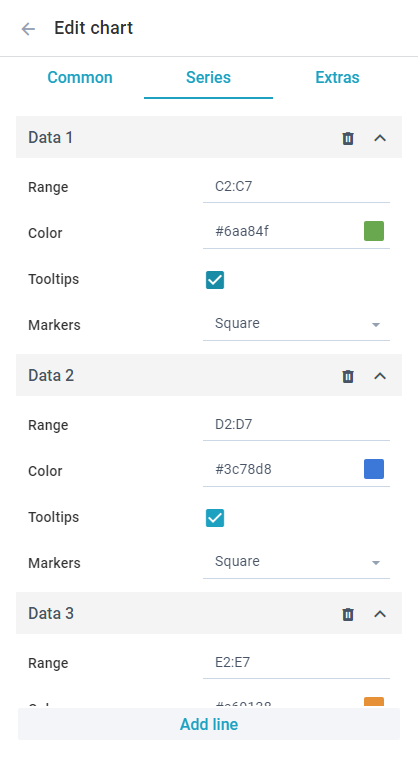
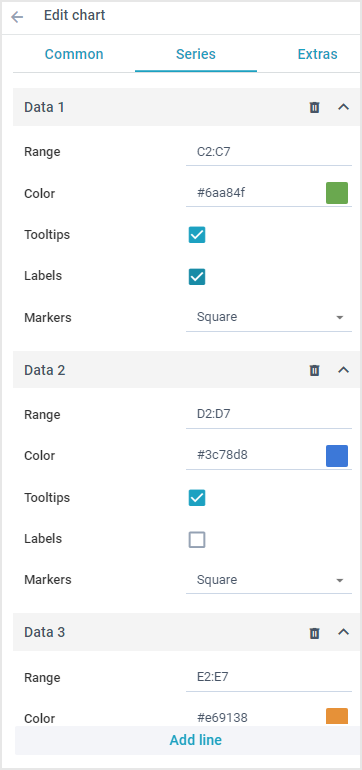
[update] add 8.3 features

diff --git a/work_with_views.md b/work_with_views.md
@@ -44,8 +44,9 @@ In the **Series** tab you can:
 1. Specify the range for a series 
 2. Choose an appropriate color from a color picker
 3. Enable or disable tooltips for markers
-4. Define the markers shape 
-5. Delete a series or add a new line
+4. Enable or disable labels for markers
+6. Define the markers shape 
+6. Delete a series or add a new line
 
 ![Series Tab](.gitbook/assets/chart_series.png)
 
@@ -65,11 +66,20 @@ It is also possible to specify the *horizontal* and *vertical alignment* of the 
 
 #### Tuning Axes
 
-To define the data source for the X-axis type the range of the cells to get data from in the traditional **Range** field.
+To define the data source for the X-axis type the range of the cells to get data from in the dedicated **Range** field.
 
-You can also provide *titles* for both X and Y-axes, enable the *background grid* and choose its *color* through the corresponding controls on the panel.
+You can also provide *titles* for both X and Y-axes.
 
 ![Background Lines are Colored Purple](.gitbook/assets/chart_lines_color.png)
+
+Apart from the *Title* field mentioned above the Y-Axis has the following configurable options on its own:
+
+1. Origin - the scale origin on the Y-axis
+2. Start - the minimum value of the scale on the Y-Axis
+3. End - the maximum value of the scale on the Y-Axis
+4. Step - the scale step on the Y-Axis.
+
+![Y-Axis specific settings in use](.gitbook/assets/yaxis-specific-settings.png)
 
 ## Downloading Views
 
